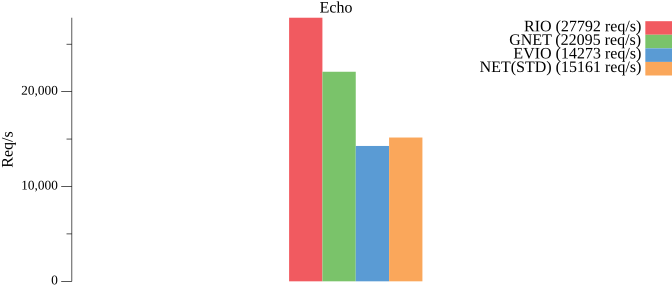
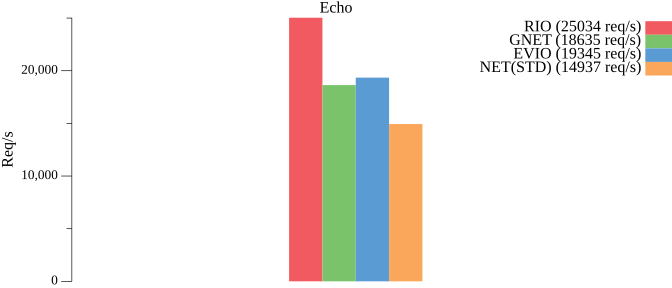
mod bench

diff --git a/README.md b/README.md
@@ -9,7 +9,7 @@ Linux 内核版本需要`>= 5.14`，推荐版本为`>= 6.1`。
 ## 性能
 
 使用 `tcpkali` 进行压力测试，
-[代码地址](https://github.com/brickingsoft/rio_examples/tree/main/tcpkali) 。
+[基准测试代码地址](https://github.com/brickingsoft/rio_examples/tree/main/tcpkali) 。
 
 ```shell
 tcpkali --workers 1 -c 50 -T 10s -m "PING" 192.168.100.120:9000
@@ -23,12 +23,12 @@ tcpkali --workers 1 -c 50 -T 10s -m "PING" 192.168.100.120:9000
 
 <img src="benchmark/tcpkali.png" width="336" height="144" border="0" alt="http benchmark">
 
-| 种类       | 速率 （pps） | 说明           |
-|----------|----------|--------------|
-| RIO      | 27791.8  | 稳定在25000     |
-| GNET     | 22095.3  | 稳定在18000     |
-| EVIO     | 14272.9  | 稳定在14000     |
-| NET(STD) | 15161.3  | 稳定在14000     |
+| 种类       | 速率 （pps） | 说明       | 性能    |
+|----------|----------|----------|-------|
+| RIO      | 25033.5  | 稳定在25000 | 100 % |
+| GNET     | 18635.1  | 稳定在18000 | 74 %  |
+| EVIO     | 19344.9  | 稳定在19000 | 77 %  |
+| NET(STD) | 14937.1  | 稳定在14000 | 59 %  |
 
 <details>
 <summary>详细结果</summary>
@@ -39,12 +39,12 @@ Destination: [192.168.100.120]:9000
 Interface eth0 address [192.168.100.1]:0
 Using interface eth0 to connect to [192.168.100.120]:9000
 Ramped up to 50 connections.
-Total data sent:     287.6 MiB (301548988 bytes)
-Total data received: 286.4 MiB (300361173 bytes)
-Bandwidth per channel: 9.627⇅ Mbps (1203.3 kBps)
-Aggregate bandwidth: 240.188↓, 241.138↑ Mbps
-Packet rate estimate: 27791.8↓, 20820.1↑ (3↓, 32↑ TCP MSS/op)
-Test duration: 10.0042 s.
+Total data sent:     265.5 MiB (278387192 bytes)
+Total data received: 264.1 MiB (276937819 bytes)
+Bandwidth per channel: 8.879⇅ Mbps (1109.8 kBps)
+Aggregate bandwidth: 221.386↓, 222.544↑ Mbps
+Packet rate estimate: 25033.5↓, 19456.6↑ (3↓, 31↑ TCP MSS/op)
+Test duration: 10.0074 s.
 ```
 
 ```text
@@ -53,12 +53,12 @@ Destination: [192.168.100.120]:9000
 Interface eth0 address [192.168.100.1]:0
 Using interface eth0 to connect to [192.168.100.120]:9000
 Ramped up to 50 connections.
-Total data sent:     219.4 MiB (230096896 bytes)
-Total data received: 217.7 MiB (228243396 bytes)
-Bandwidth per channel: 7.329⇅ Mbps (916.1 kBps)
-Aggregate bandwidth: 182.481↓, 183.963↑ Mbps
-Packet rate estimate: 22095.3↓, 15777.4↑ (3↓, 44↑ TCP MSS/op)
-Test duration: 10.0062 s.
+Total data sent:     185.6 MiB (194641920 bytes)
+Total data received: 183.8 MiB (192732708 bytes)
+Bandwidth per channel: 6.074⇅ Mbps (759.3 kBps)
+Aggregate bandwidth: 154.127↓, 155.654↑ Mbps
+Packet rate estimate: 18635.1↓, 13607.3↑ (3↓, 45↑ TCP MSS/op)
+Test duration: 10.0038 s.
 ```
 
 ```text
@@ -67,12 +67,12 @@ Destination: [192.168.100.120]:9000
 Interface eth0 address [192.168.100.1]:0
 Using interface eth0 to connect to [192.168.100.120]:9000
 Ramped up to 50 connections.
-Total data sent:     200.4 MiB (210108416 bytes)
-Total data received: 198.6 MiB (208234360 bytes)
-Bandwidth per channel: 6.688⇅ Mbps (836.0 kBps)
-Aggregate bandwidth: 166.458↓, 167.956↑ Mbps
-Packet rate estimate: 14272.9↓, 14412.0↑ (2↓, 44↑ TCP MSS/op)
-Test duration: 10.0078 s.
+Total data sent:     183.4 MiB (192282624 bytes)
+Total data received: 181.9 MiB (190755004 bytes)
+Bandwidth per channel: 6.123⇅ Mbps (765.3 kBps)
+Aggregate bandwidth: 152.457↓, 153.678↑ Mbps
+Packet rate estimate: 19344.9↓, 13442.1↑ (3↓, 45↑ TCP MSS/op)
+Test duration: 10.0096 s.
 ```
 
 ```text
@@ -81,12 +81,12 @@ Destination: [192.168.100.120]:9000
 Interface eth0 address [192.168.100.1]:0
 Using interface eth0 to connect to [192.168.100.120]:9000
 Ramped up to 50 connections.
-Total data sent:     199.2 MiB (208928768 bytes)
-Total data received: 197.8 MiB (207359332 bytes)
-Bandwidth per channel: 6.654⇅ Mbps (831.7 kBps)
-Aggregate bandwidth: 165.720↓, 166.974↑ Mbps
-Packet rate estimate: 15161.3↓, 14565.3↑ (2↓, 45↑ TCP MSS/op)
-Test duration: 10.0101 s.
+Total data sent:     198.3 MiB (207945728 bytes)
+Total data received: 196.6 MiB (206165284 bytes)
+Bandwidth per channel: 6.623⇅ Mbps (827.9 kBps)
+Aggregate bandwidth: 164.859↓, 166.282↑ Mbps
+Packet rate estimate: 14937.1↓, 14506.0↑ (2↓, 45↑ TCP MSS/op)
+Test duration: 10.0045 s.
 ```
 </details>
 
